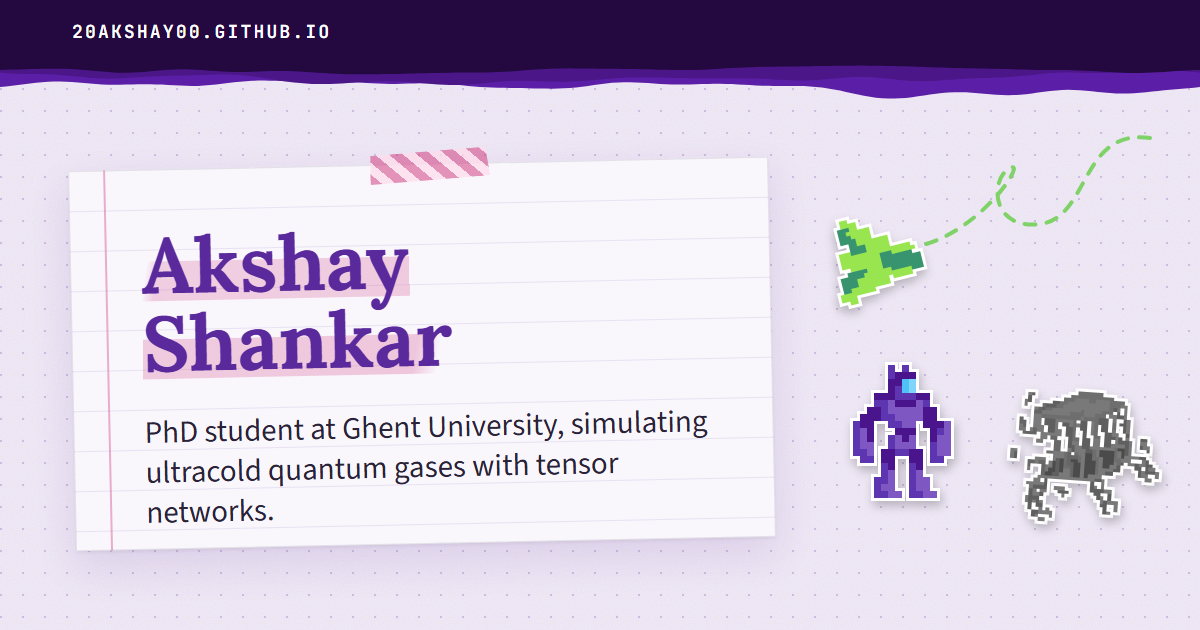
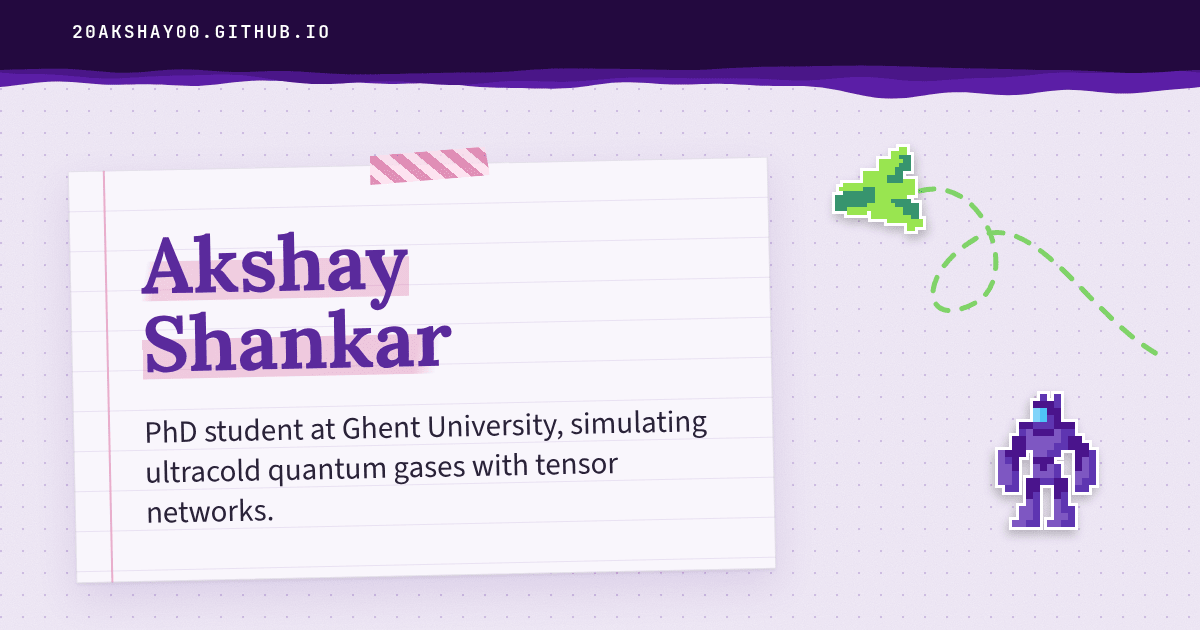
rework the social card: robot in the cage's spot, landing-page jet loop, compressed for WhatsApp

diff --git a/_social-card/card.html b/_social-card/card.html
@@ -12,6 +12,9 @@
       --screenshot="$PWD/images/social-card.png" "file:///$PWD/_social-card/card.html"
 
   (Chrome works the same way.) The fonts come from Google Fonts, so stay online.
+  Then shrink it: WhatsApp drops preview images over ~300 KB.
+
+    pngquant --quality 80-95 --speed 1 -f --ext .png images/social-card.png
 -->
 <html><head><meta charset="utf-8">
 <link href="https://fonts.googleapis.com/css2?family=Lora:wght@700&family=Source+Sans+3:wght@400;600&family=JetBrains+Mono:wght@600&display=block" rel="stylesheet">
@@ -39,7 +42,7 @@
   .waves { position: absolute; top: 64px; left: 0; width: 1200px; height: 36px; }
   /* a sheet of notebook paper with a pink margin line, taped on */
   .sheet {
-    position: absolute; left: 72px; top: 164px; width: 700px; height: 380px;
+    position: absolute; left: 72px; top: 164px; width: 700px; height: 412px;
     background-color: #f9f6fc;
     background-image:
       linear-gradient(90deg, transparent 34px, rgba(209, 64, 129, 0.4) 34px, rgba(209, 64, 129, 0.4) 36px, transparent 36px),
@@ -69,8 +72,11 @@
   }
   /* the robot: the first frame of its idle sheet (32 x 32 frames), drawn at 7x */
   .robot { width: 224px; height: 224px; background: url("../images/sprites/robot_idle.png") 0 0 / 448px 224px no-repeat; }
-  .trail { position: absolute; overflow: visible; }
-  .trail path { fill: none; stroke: #6ccf4f; stroke-width: 4; stroke-dasharray: 11 11; stroke-linecap: round; opacity: 0.85; }
+  /* the jet with its dashed flight path, as on the landing page (170 x 120 box there) */
+  .jet-trail { position: absolute; width: 340px; height: 240px; }
+  .jet-trail svg { position: absolute; inset: 0; width: 100%; height: 100%; overflow: visible; }
+  .jet-trail path { fill: none; stroke: #6ccf4f; stroke-width: 2.5; stroke-dasharray: 7 7; stroke-linecap: round; opacity: 0.85; }
+  .jet-trail .sticker { top: 12px; left: 0; width: 88px; }
 </style></head>
 <body>
   <div class="band"><span>20akshay00.github.io</span></div>
@@ -82,11 +88,10 @@
     <p class="role">PhD student at Ghent University, simulating ultracold quantum gases with tensor networks.</p>
   </div>
 
-  <!-- the jet's dashed flight path, from the top right corner down to the jet -->
-  <svg class="trail" style="left: 880px; top: 128px; width: 280px; height: 150px;" viewBox="0 0 280 150">
-    <path d="M270 10 C 200 0, 210 90, 160 96 S 110 50, 130 40 S 90 120, 20 120"/>
-  </svg>
-  <img class="sticker" src="../images/sprites/jet1.png" style="left: 832px; top: 214px; width: 88px; transform: rotate(-14deg) scaleX(-1);">
-  <img class="sticker" src="../images/sprites/cage.png" style="left: 1010px; top: 392px; width: 150px; transform: rotate(4deg);">
-  <div class="sticker robot" style="left: 790px; top: 316px;"></div>
+  <!-- the jet and its looping flight path: the landing page's sticker, drawn at 2x -->
+  <div class="jet-trail" style="left: 835px; top: 135px;">
+    <svg viewBox="0 0 170 120"><path d="M30 34 C 70 6, 96 70, 70 84 S 40 70, 70 52 S 130 96, 166 112"/></svg>
+    <img class="sticker" src="../images/sprites/jet1.png">
+  </div>
+  <div class="sticker robot" style="left: 935px; top: 345px; transform: scaleX(-1);"></div>
 </body></html>
